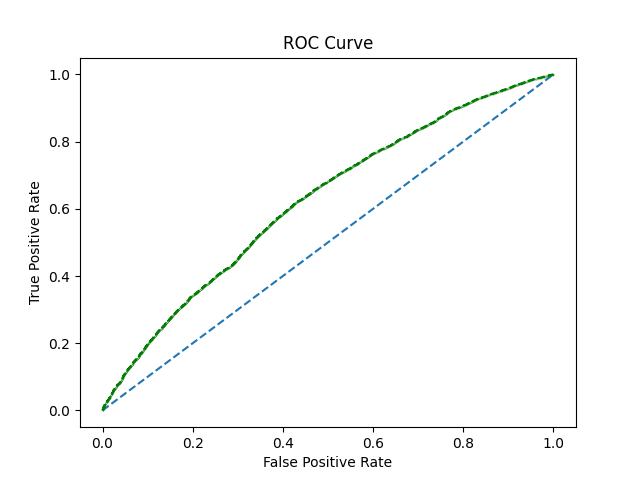
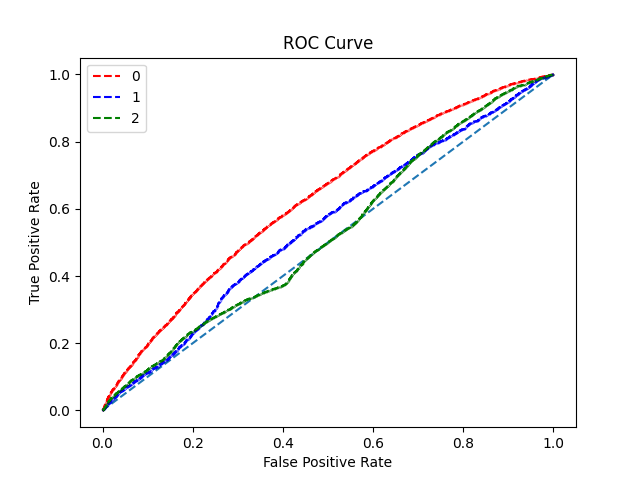
report updated

diff --git a/Enhanced-ANN-GSGD/printFinalResults.py b/Enhanced-ANN-GSGD/printFinalResults.py
@@ -6,9 +6,11 @@ from torchmetrics.utilities.checks import _input_format_classification
             
 def print_results_final(inputVal, network, actual, loss_function, class_num, type = ''):
     xval = inputVal
+    random_colors = ['red', 'blue', 'green', 'yellow', 'orange','pink', 'purple', 'brown', 'black', 'grey' ]
     
-    #only used for diabetes dataset 2class and 3 class else set to None
-    labels = None
+    labels = [str(i) for i in range(class_num)]  #this is default
+    
+    #only used for diabetes dataset 2class and 3 class else use the above
     #labels = ["Not", "Readmitted"]
     #labels = ["NO", "<30", ">30"]
     #end
@@ -29,23 +31,27 @@ def print_results_final(inputVal, network, actual, loss_function, class_num, typ
     print('overall Error', overall_E)
     print('----------------')
 
-    #ROC Curve
+    #ROC Curve 
     plt.figure()
     plt.plot([0.0, 1.0], [0.0, 1.0], linestyle='--')
-    plt.plot(fpr[0].cpu().data.numpy(), tpr[0].cpu().data.numpy(),'g--', label='ROC', marker='.', markersize='0.02')
+    for ind in range(len(labels)):
+        plt.plot(fpr[ind].cpu().data.numpy(), tpr[ind].cpu().data.numpy(),'g--', color = random_colors[ind], label=labels[ind], marker='.', markersize='0.02')
     plt.title('ROC Curve')
     plt.ylabel('True Positive Rate')
     plt.xlabel('False Positive Rate')
+    plt.legend(loc=2)
     plt.savefig('graphs/'+ type +'/roc_curve.png')
     
     #precision Recall Curve
     no_skill = len(actual[actual==1]) / len(actual)
     plt.figure()
     plt.plot([0.0, 1.0], [no_skill,no_skill], linestyle='--')
-    plt.plot(recall_plot[1].cpu().data.numpy(), precision_plot[1].cpu().data.numpy(),'g--', label='Precision-Recall Curve', marker='.', markersize='0.02')
+    for ind in range(len(labels)):
+        plt.plot(recall_plot[ind].cpu().data.numpy(), precision_plot[ind].cpu().data.numpy(),  'g--', color = random_colors[ind], label=labels[ind], marker='.', markersize='0.02')
     plt.title('Precision Recall Curve')
     plt.ylabel('Precision')
     plt.xlabel('Recall')
+    plt.legend(loc=2)
     plt.savefig('graphs/'+ type +'/Precision_recall_curve.png')
 
     #Confusion Matrix and Classification report

diff --git a/Enhanced-ANN-GSGD/readData.py b/Enhanced-ANN-GSGD/readData.py
@@ -18,7 +18,7 @@ def readData(file_path, apply_smote = False):
     X_train_old, xts, Y_train_old, yts = train_test_split(data.iloc[:, :-1], data[[d-1]] , test_size=0.20, random_state=0)
         
     if apply_smote:   
-        oversample = SMOTE(random_state=42, k_neighbors=2)
+        oversample = SMOTE(random_state=42)
         x, y = oversample.fit_resample(X_train_old, Y_train_old)
     else:
         x = X_train_old

diff --git a/Enhanced-ANN-GSGD/network.py b/Enhanced-ANN-GSGD/network.py
@@ -1,5 +1,4 @@
 # Programmer: Avishek Ram
-# email: avishekram30@gmail.com
 import numpy as np
 from math import exp
 import torch
